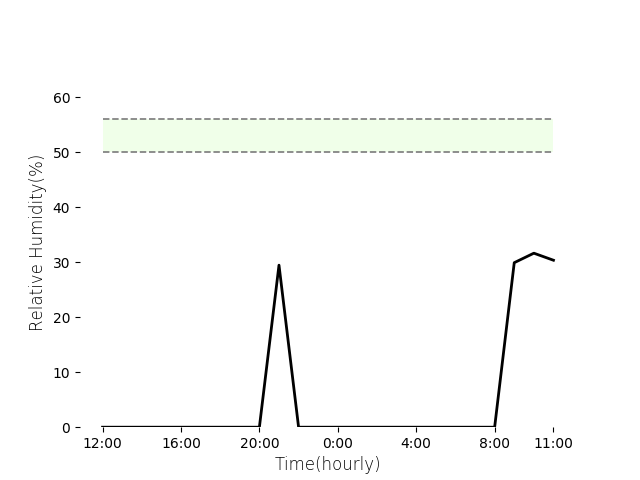
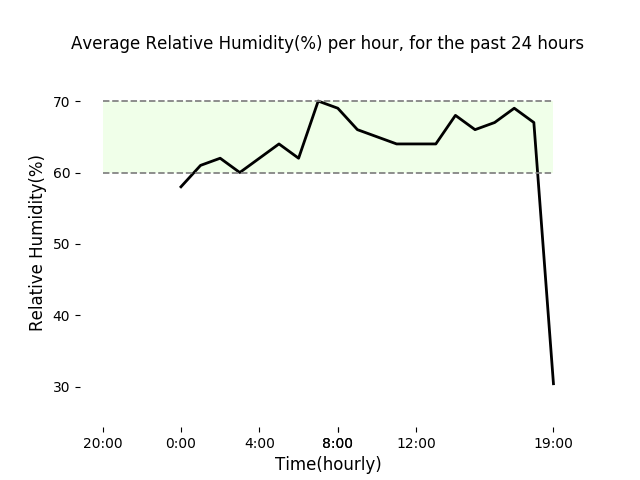
Hopefully, final commit

diff --git a/Server/server.py b/Server/server.py
@@ -13,6 +13,7 @@ import matplotlib.pyplot  as plt
 import seaborn
 import base64
 import time
+import calendar
 # Connect to Firebase
 cred = credentials.Certificate("Firebase/spicychorizo-794f1-firebase-adminsdk-dckj3-acd1fd6dc2.json")
 firebase_admin.initialize_app(cred, {
@@ -35,7 +36,6 @@ def list_to_dict(raw_data):
     dict = {}
     for i in range(len(raw_data)):
         if raw_data[i] != None:
-            print(raw_data[i])
             if not np.isnan(raw_data[i]):
                 dict[str(i)] = raw_data[i]
 
@@ -55,6 +55,124 @@ def filter_none(lst):
  #######################################################################################################
  #-----------------------------Graph creation--------------------------------------------------------
  #######################################################################################################
+def update_week_hour_graphs():
+
+    ref = db.reference('/l_week/week_hour_AVG')
+    #Retreive data from Firebase
+    humidity_values = list_to_dict(ref.child('humidity').get())
+    temperature_values = list_to_dict(ref.child('temperature').get())
+
+
+    ref = db.reference('/user_settings')
+    settings = ref.get()
+    if(settings is None):
+        settings = { 'humidity_max' : 70,
+                     'humidity_min' : 60,
+                     'temperature_max' : 18,
+                     'temperature_min' : 7
+        }
+
+    average_week_hour_graph_temp(temperature_values, settings['temperature_max'], settings['temperature_min'])
+    average_week_hour_graph_hum(humidity_values, settings['humidity_max'], settings['humidity_min'])
+
+def average_week_hour_graph_temp(temperature_values, lower_range, upper_range):
+    graph_labels = []
+    graph_data = []
+    if temperature_values is not None:
+        for i in range(24):
+            graph_labels.append(str(i) + ":00")
+            if str(i) in temperature_values:
+                graph_data.append(temperature_values[str(i)])
+            else:
+                graph_data.append(np.NaN)
+
+    else:
+        for i in range(24):
+            graph_data.append(str(i) + ":00")
+            graph_data.append(np.NaN)
+
+    time_labels = []
+    graph_data = np.asarray(graph_data)
+    series = np.array(graph_data).astype(np.double)
+    mask = np.isfinite(series)
+    xi = np.arange(24)
+    allowed_ticks = [0, 4, 8, 12, 16, 20, 23]
+    time_labels = []
+    for tick in allowed_ticks:
+        time_labels.append(graph_labels[tick])
+    plot = plt.plot(xi[mask], graph_data[mask], linestyle='-', color='#000000',linewidth=2)
+    plt.xticks(allowed_ticks, time_labels)
+    plt.locator_params(axis='x', nbins=24)
+    #plt.fill_between(xi[mask], graph_data[mask], y2=0, facecolor='#4D071D', alpha=0.5)
+
+    upper_array = [upper_range]*24
+    lower_array = [lower_range]*24
+    upper = plt.plot(xi, upper_array, linestyle='--', color='#808080',linewidth=1.25)
+    lower = plt.plot(xi, lower_array, linestyle='--', color='#808080',linewidth=1.25)
+    plt.fill_between(xi, upper_array, y2=lower_array, facecolor='#C5FFA8', alpha=0.25)
+    plt.ylabel("Average Temperature(°C)", fontweight="medium", fontsize="12")
+    plt.xlabel("Time(daily)", fontweight="medium", fontsize="12")
+    plt.title("Temperature(°C) per hour, averaged over 7 days", fontweight="medium", fontsize="12")
+    axes = plt.gca()
+    axes.set_ylim([min([graph_data[mask].min()*0.8,lower_range*0.8]),max([graph_data[mask].max(),upper_range]) + abs(min([graph_data[mask].min()*0.2,lower_range*0.2]))])
+    seaborn.despine(left=True, bottom=True, right=True)
+    plt.savefig('average_week_hour_graph_temp.png')
+    plt.clf()
+    with open("average_week_hour_graph_temp.png", "rb") as img_file:
+        image_string = base64.b64encode(img_file.read())
+
+    ref_average_week_hour_graph_temp = db.reference('/graphs_temp')
+    ref_average_week_hour_graph_temp.update({'average_week_hour_graph': image_string.decode()})
+
+def average_week_hour_graph_hum(humidity_values, lower_range, upper_range):
+    graph_labels = []
+    graph_data = []
+    if humidity_values is not None:
+        for i in range(24):
+            graph_labels.append(str(i) + ":00")
+            if str(i) in humidity_values:
+                graph_data.append(humidity_values[str(i)])
+            else:
+                graph_data.append(np.NaN)
+
+    else:
+        for i in range(24):
+            graph_data.append(str(i) + ":00")
+            graph_data.append(np.NaN)
+
+    time_labels = []
+    graph_data = np.asarray(graph_data)
+    series = np.array(graph_data).astype(np.double)
+    mask = np.isfinite(series)
+    xi = np.arange(24)
+    allowed_ticks = [0, 4, 8, 12, 16, 20, 23]
+    time_labels = []
+    for tick in allowed_ticks:
+        time_labels.append(graph_labels[tick])
+    plot = plt.plot(xi[mask], graph_data[mask], linestyle='-', color='#000000',linewidth=2)
+    plt.xticks(allowed_ticks, time_labels)
+    plt.locator_params(axis='x', nbins=24)
+    #plt.fill_between(xi[mask], graph_data[mask], y2=0, facecolor='#4D071D', alpha=0.5)
+
+    upper_array = [upper_range]*24
+    lower_array = [lower_range]*24
+    upper = plt.plot(xi, upper_array, linestyle='--', color='#808080',linewidth=1.25)
+    lower = plt.plot(xi, lower_array, linestyle='--', color='#808080',linewidth=1.25)
+    plt.fill_between(xi, upper_array, y2=lower_array, facecolor='#C5FFA8', alpha=0.25)
+    plt.ylabel("Average Humidity(%)", fontweight="medium", fontsize="12")
+    plt.xlabel("Time(hourly)", fontweight="medium", fontsize="12")
+    plt.title("Relative Humidity(%) per hour, averaged over 7 days", fontweight="medium", fontsize="12")
+    axes = plt.gca()
+    axes.set_ylim([min([graph_data[mask].min()*0.8,lower_range*0.8]),max([graph_data[mask].max(),upper_range]) + abs(min([graph_data[mask].min()*0.2,lower_range*0.2]))])
+    seaborn.despine(left=True, bottom=True, right=True)
+    plt.savefig('average_week_hour_graph_hum.png')
+    plt.clf()
+    with open("average_week_hour_graph_hum.png", "rb") as img_file:
+        image_string = base64.b64encode(img_file.read())
+
+    ref_average_week_hour_graph_hum = db.reference('/graphs_hum')
+    ref_average_week_hour_graph_hum.update({'average_week_hour_graph': image_string.decode()})
+
 def update_day_graphs(cur_day):
     ref = db.reference('/l_week/week_AVG/')
     #Retrieve data from firebase
@@ -70,9 +188,118 @@ def update_day_graphs(cur_day):
                      'temperature_min' : 7
         }
 
-    average_day_graph_temp(cur_day, temperature_values, settings[temperature_min], settings[temperature_max])
+    average_day_graph_temp(cur_day, temperature_values, settings['temperature_min'], settings['temperature_max'])
+    average_day_graph_hum(cur_day, humidity_values, settings['humidity_min'], settings['humidity_max'])
 
+def average_day_graph_temp(day, temperature_values, lower_range, upper_range):
+    graph_labels = []
+    graph_data = []
+    if temperature_values is not None:
+        for i in range(day + 1, 7):
+            graph_labels.append(calendar.day_name[i])
+            if str(i) in temperature_values:
+                graph_data.append(temperature_values[str(i)])
+            else:
+                graph_data.append(np.NaN)
+        for i in range(0, day + 1):
+            graph_labels.append(calendar.day_name[i])
+            if str(i) in temperature_values:
+                graph_data.append(temperature_values[str(i)])
+            else:
+                graph_data.append(np.NaN)
 
+    else:
+        for i in range(7):
+            graph_data.append(calendar.day_name[i])
+            graph_data.append(np.NaN)
+
+    time_labels = []
+    graph_data = np.asarray(graph_data)
+    series = np.array(graph_data).astype(np.double)
+    mask = np.isfinite(series)
+    xi = np.arange(7)
+    allowed_ticks = [0, 1, 2, 3, 4, 5, 6]
+    time_labels = []
+    for tick in allowed_ticks:
+        time_labels.append(graph_labels[tick])
+    plot = plt.plot(xi[mask], graph_data[mask], linestyle='-', color='#000000',linewidth=2)
+    plt.xticks(allowed_ticks, time_labels)
+    plt.locator_params(axis='x', nbins=7)
+    #plt.fill_between(xi[mask], graph_data[mask], y2=0, facecolor='#4D071D', alpha=0.5)
+
+    upper_array = [upper_range]*7
+    lower_array = [lower_range]*7
+    upper = plt.plot(xi, upper_array, linestyle='--', color='#808080',linewidth=1.25)
+    lower = plt.plot(xi, lower_array, linestyle='--', color='#808080',linewidth=1.25)
+    plt.fill_between(xi, upper_array, y2=lower_array, facecolor='#C5FFA8', alpha=0.25)
+    plt.ylabel("Average Temperature(°C)", fontweight="medium", fontsize="12")
+    plt.xlabel("Time(daily)", fontweight="medium", fontsize="12")
+    plt.title("Average Temperature(°C) per day, for the past 7 days", fontweight="medium", fontsize="12")
+    axes = plt.gca()
+    axes.set_ylim([min([graph_data[mask].min()*0.8,lower_range*0.8]),max([graph_data[mask].max(),upper_range]) + abs(min([graph_data[mask].min()*0.2,lower_range*0.2]))])
+    seaborn.despine(left=True, bottom=True, right=True)
+    plt.savefig('average_day_graph_temp.png')
+    plt.clf()
+    with open("average_day_graph_temp.png", "rb") as img_file:
+        image_string = base64.b64encode(img_file.read())
+
+    ref_average_hour_graph_temp = db.reference('/graphs_temp')
+    ref_average_hour_graph_temp.update({'average_day_graph': image_string.decode()})
+
+def average_day_graph_hum(day, humidity_values, lower_range, upper_range):
+    graph_labels = []
+    graph_data = []
+    if humidity_values is not None:
+        for i in range(day + 1, 7):
+            graph_labels.append(calendar.day_name[i])
+            if str(i) in humidity_values:
+                graph_data.append(humidity_values[str(i)])
+            else:
+                graph_data.append(np.NaN)
+        for i in range(0, day + 1):
+            graph_labels.append(calendar.day_name[i])
+            if str(i) in humidity_values:
+                graph_data.append(humidity_values[str(i)])
+            else:
+                graph_data.append(np.NaN)
+
+    else:
+        for i in range(7):
+            graph_data.append(calendar.day_name[i])
+            graph_data.append(np.NaN)
+
+    time_labels = []
+    graph_data = np.asarray(graph_data)
+    series = np.array(graph_data).astype(np.double)
+    mask = np.isfinite(series)
+    xi = np.arange(7)
+    allowed_ticks = [0, 1, 2, 3, 4, 5, 6]
+    time_labels = []
+    for tick in allowed_ticks:
+        time_labels.append(graph_labels[tick])
+    plot = plt.plot(xi[mask], graph_data[mask], linestyle='-', color='#000000',linewidth=2)
+    plt.xticks(allowed_ticks, time_labels)
+    plt.locator_params(axis='x', nbins=7)
+    #plt.fill_between(xi[mask], graph_data[mask], y2=0, facecolor='#4D071D', alpha=0.5)
+
+    upper_array = [upper_range]*7
+    lower_array = [lower_range]*7
+    upper = plt.plot(xi, upper_array, linestyle='--', color='#808080',linewidth=1.25)
+    lower = plt.plot(xi, lower_array, linestyle='--', color='#808080',linewidth=1.25)
+    plt.fill_between(xi, upper_array, y2=lower_array, facecolor='#C5FFA8', alpha=0.25)
+    plt.ylabel("Average Humidity(%)", fontweight="medium", fontsize="12")
+    plt.xlabel("Time(daily)", fontweight="medium", fontsize="12")
+    plt.title("Average Relative Humidity(%) per day, for the past 7 days", fontweight="medium", fontsize="12")
+    axes = plt.gca()
+    axes.set_ylim([min([graph_data[mask].min()*0.8,lower_range*0.8]),max([graph_data[mask].max(),upper_range]) + abs(min([graph_data[mask].min()*0.2,lower_range*0.2]))])
+    seaborn.despine(left=True, bottom=True, right=True)
+    plt.savefig('average_day_graph_hum.png')
+    plt.clf()
+    with open("average_day_graph_hum.png", "rb") as img_file:
+        image_string = base64.b64encode(img_file.read())
+
+    ref_average_hour_graph_temp = db.reference('/graphs_hum')
+    ref_average_hour_graph_temp.update({'average_day_graph': image_string.decode()})
 
 def update_hour_graphs(cur_hour, cur_day):
 
@@ -103,14 +330,8 @@ def update_hour_graphs(cur_hour, cur_day):
     average_hour_graph_hum(cur_hour, cur_day, humidity_values_yesterday, humidity_values_today, settings['humidity_max'], settings['humidity_min'])
 
 def average_hour_graph_temp(hour, day, temp_values_yesterday, temp_values_today, upper_range, lower_range): #current hour, day of today
-    # ref_today =  db.reference('/l_week/hour_AVG/weekday_' + str(day))
-    # ref_yesterday = db.reference('/l_week/hour_AVG/weekday_' + str((day-1)%7))
-    #
-    # light_values_today = ref_today.child('light').get()
-    # light_values_yesterday = ref_yesterday.child('light').get()
     graph_labels = []
     graph_data = []
-    # graph_data[:,:] = np.NaN
 
     if temp_values_yesterday is not None:
         for i in range(hour + 1, 24): #take the required hours from yesterday
@@ -159,10 +380,11 @@ def average_hour_graph_temp(hour, day, temp_values_yesterday, temp_values_today,
     upper = plt.plot(xi, upper_array, linestyle='--', color='#808080',linewidth=1.25)
     lower = plt.plot(xi, lower_array, linestyle='--', color='#808080',linewidth=1.25)
     plt.fill_between(xi, upper_array, y2=lower_array, facecolor='#C5FFA8', alpha=0.25)
-    plt.ylabel("Temperature(°C)", fontname="sans-serif", fontweight="light", fontsize="12")
-    plt.xlabel("Time(hourly)", fontname="sans-serif", fontweight="light", fontsize="12")
+    plt.ylabel("Temperature(°C)", fontweight="medium", fontsize="12")
+    plt.xlabel("Time(hourly)", fontweight="medium", fontsize="12")
+    plt.title("Average Temperature(°C) per hour, for the past 24 hours", fontweight="medium", fontsize="12")
     axes = plt.gca()
-    axes.set_ylim([min([graph_data[mask].min()*0.8,lower_range*0.8]),max([graph_data[mask].max()*1.2,upper_range*1.2])])
+    axes.set_ylim([min([graph_data[mask].min()*0.8,lower_range*0.8]),max([graph_data[mask].max(),upper_range]) + abs(min([graph_data[mask].min()*0.2,lower_range*0.2]))])
     seaborn.despine(left=True, bottom=True, right=True)
     plt.savefig('average_hour_graph_temp.png')
     plt.clf()
@@ -215,7 +437,7 @@ def average_hour_graph_hum(hour, day, hum_values_yesterday, hum_values_today, up
     series = np.array(graph_data).astype(np.double)
     mask = np.isfinite(series)
     xi = np.arange(24)
-    allowed_ticks = [0, 4, 8, 12, 16, 20, 23]
+    allowed_ticks = [0, 4, 8, 12, 16, 12, 23]
     time_labels = []
     for tick in allowed_ticks:
         time_labels.append(graph_labels[tick])
@@ -229,10 +451,11 @@ def average_hour_graph_hum(hour, day, hum_values_yesterday, hum_values_today, up
     upper = plt.plot(xi, upper_array, linestyle='--', color='#808080',linewidth=1.25)
     lower = plt.plot(xi, lower_array, linestyle='--', color='#808080',linewidth=1.25)
     plt.fill_between(xi, upper_array, y2=lower_array, facecolor='#C5FFA8', alpha=0.25)
-    plt.ylabel("Relative Humidity(%)", fontname="sans-serif", fontweight="light", fontsize="12")
-    plt.xlabel("Time(hourly)", fontname="sans-serif", fontweight="light", fontsize="12")
+    plt.ylabel("Relative Humidity(%)", fontweight="medium", fontsize="12")
+    plt.xlabel("Time(hourly)", fontweight="medium", fontsize="12")
+    plt.title("Average Relative Humidity(%) per hour, for the past 24 hours", fontweight="medium", fontsize="12")
     axes = plt.gca()
-    axes.set_ylim([min([graph_data[mask].min()*0.8,lower_range*0.8]),max([graph_data[mask].max()*1.2,upper_range*1.2])])
+    axes.set_ylim([min([graph_data[mask].min()*0.8,lower_range*0.8]),max([graph_data[mask].max(),upper_range]) + abs(min([graph_data[mask].min()*0.2,lower_range*0.2]))])
     seaborn.despine(left=True, bottom=True, right=True)
     plt.savefig("average_hour_graph_hum.png")
     plt.clf()
@@ -581,8 +804,8 @@ def send_to_topic():
 
     message = messaging.Message(
         notification=messaging.Notification(
-            title='EMERGENCY',
-            body='TEMPERATURE IS TOO HOT HOT HOT',
+            title='Warning:',
+            body='Temperature is too high for your wine',
         ),
         topic=topic,
     )
@@ -592,10 +815,6 @@ def send_to_topic():
     # Response is a message ID string.
     print('Successfully sent message:', response)
     # [END send_to_topic]
-
-
-
-
 
  #######################################################################################################
  #-----------------------------On message--------------------------------------------------------
@@ -666,6 +885,12 @@ def on_message(client, userdata, message):
     ref.child('temperature').update({cur_minute: cur_temperature})
 
     #Update last 24h average graphs since they contain last value as the current one
+    update_week_hour_graphs()
+    print('Updated Week hour graphs')
+
+    update_day_graphs(cur_day)
+    print('Updated last day average graphs')
+
     update_hour_graphs(cur_hour, cur_day)
     print('Updated last 24h average graphs')
 
@@ -697,7 +922,6 @@ else:
 
 client.on_message = on_message
 client.subscribe("IC.embedded/spicy_chorizo/#")
-
 
 client.loop_forever()
 print("Done")
